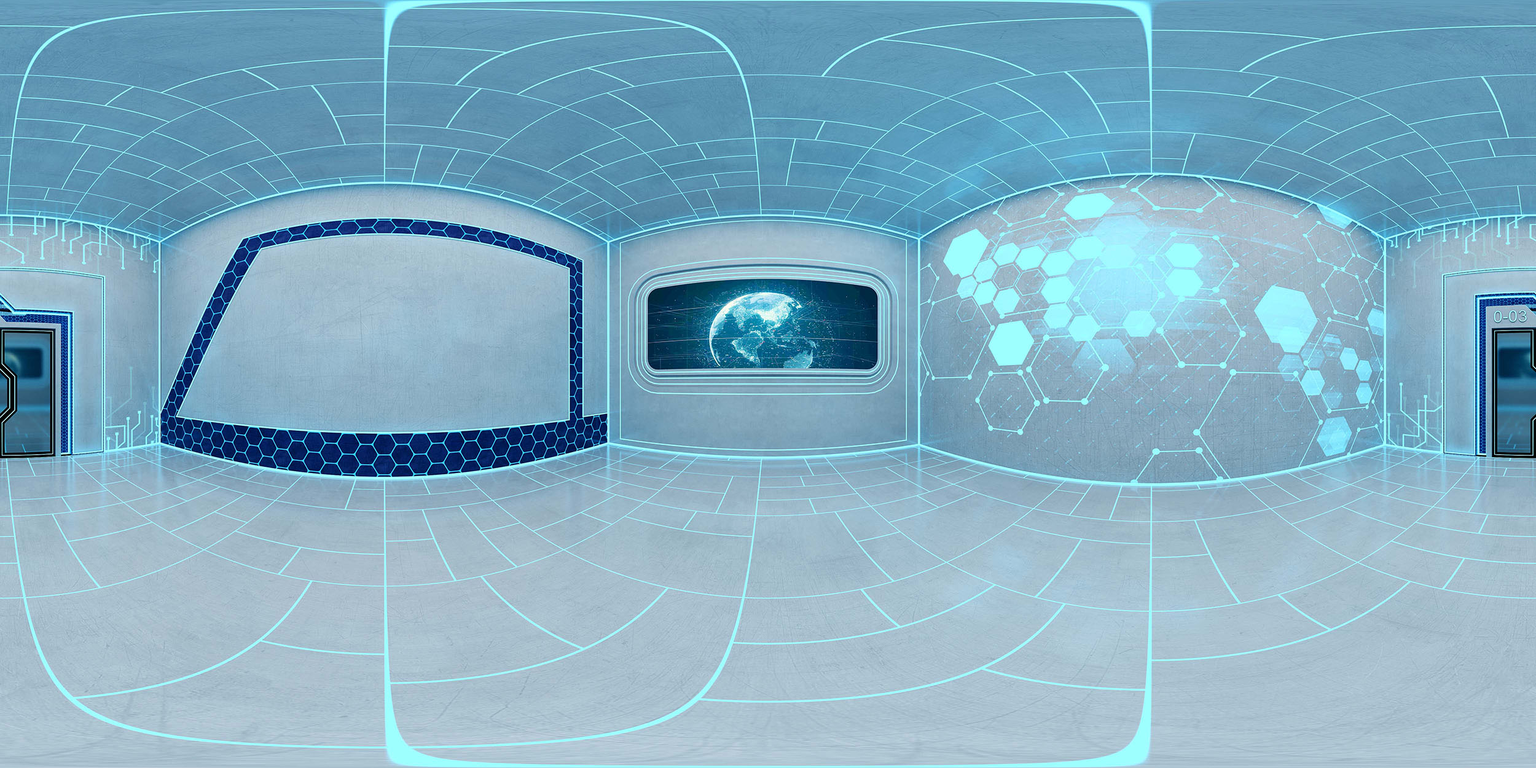
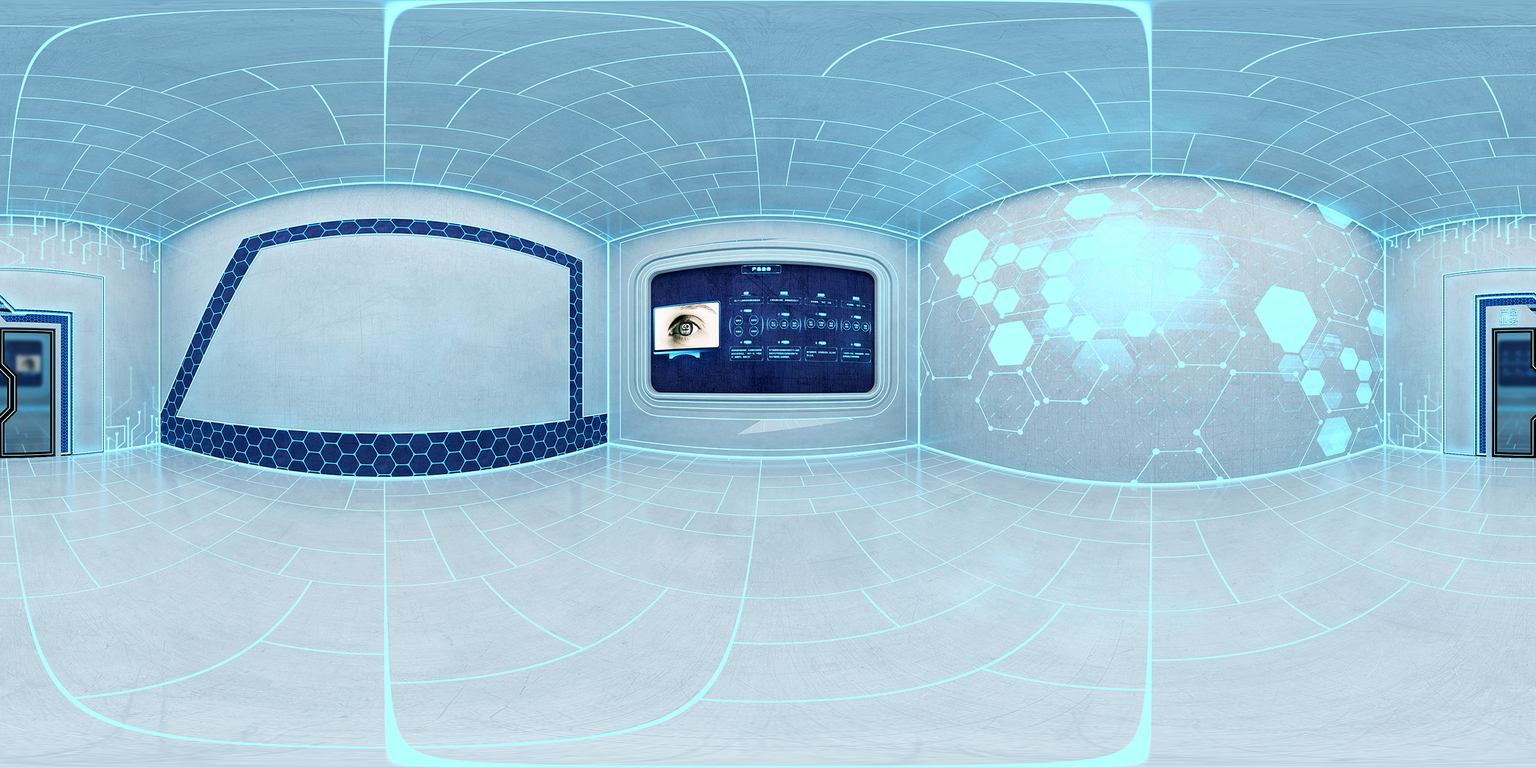
111133213213321321

diff --git a/src/views/Index3.vue b/src/views/Index3.vue
@@ -11,7 +11,20 @@
 <template>
     <div class="index3">
         <div id="viewer"></div>
-        <div class="back" ></div>
+        <div class="back" @click="backHome" v-if="id">
+            <img class="image" :src="backImage" alt="箭头" >
+        </div>
+
+
+        <div class="lotery" @touchstart.stop @click.stop="lotery" v-if="activeId.length === 5">
+            <img class="image" :src="lotterImage" alt="抽检">
+        </div>
+
+        <history-com ref="licheng"></history-com>
+        <yewu-com ref="yewu"></yewu-com>
+        <gongyi-com ref="gongyi"></gongyi-com>
+        <kejishili-com ref="keji"></kejishili-com>
+        <rongyu-com ref="rongyu"></rongyu-com>
     </div>
     
 </template>
@@ -36,11 +49,38 @@ import licheng from "@/assets/image/cube/发展历程.png"
 import gongyi from "@/assets/image/cube/公益事业.png"
 import keji from "@/assets/image/cube/科技能力.png"
 import rongyu from "@/assets/image/cube/荣誉成绩.png"
+import fangdaImage from "@/assets/image/cube/放大镜2.png"
+import backImage from "@/assets/返回大厅.png"
+import lotterImage from "@/assets/image/index2/选我.png"
 
 import { deepClone } from "@/assets/js/utils"
 
+import historyCom from "@/components/history"
+import yewuCom from "@/components/yewu"
+import gongyiCom from "@/components/gongyi"
+import kejishiliCom from "@/components/kejishili"
+import rongyuCom from "@/components/rongyu"
+
+
 export default {
+    components: {
+        historyCom,
+        yewuCom,
+        gongyiCom,
+        kejishiliCom,
+        rongyuCom
+    },
+    data() {
+        return {
+            lotterImage,
+            backImage,
+            id: null,
+            activeId: []
+        }
+    },
     mounted() {
+
+        let that = this
         const viewer = new Viewer({
             container: document.querySelector('#viewer'),
             panorama: image,
@@ -48,7 +88,7 @@ export default {
             defaultLong: Math.PI/2, //左右  0 and 2π
             defaultLat: 0, //上下 -π/2 and π/2
 
-            
+
             defaultZoomLvl: 20, //Initial zoom level, between 0 (for maxFov) and 100 (for minfov)
             plugins: [
                 [ MarkersPlugin, {
@@ -99,6 +139,7 @@ export default {
                             image: licheng,
                         })
 
+                        that.arrMarker = arr
 
                         return arr
                     })()
@@ -107,19 +148,59 @@ export default {
         })
 
         const markersPlugin = viewer.getPlugin(MarkersPlugin)
-        
-        markersPlugin.on("select-marker",function(e, marker, data) {
 
-            if(marker.id === "yewu"){
+        this.markers1 = markersPlugin.markers
+        this.markersPlugin = markersPlugin
+        this.viewer = viewer
+        
+        markersPlugin.on("select-marker",(e, marker, data) => {
+            
+            
+            if(marker.id === "fangdaImage") {
+                
+                if(this.id === "yewu") {
+                    this.$refs.yewu.show()
+
+                }else if(this.id === "gongyi") {
+                    this.$refs.gongyi.show()
+
+                }else if(this.id === "licheng") {
+                    this.$refs.licheng.show()
+
+                }else if(this.id === "keji") {
+                    this.$refs.keji.show()
+
+                }else if(this.id === "rongyu") {
+                    this.$refs.rongyu.show()
+                }
+
+                return
+
+            }else if(marker.id === "yewu"){
+
+                this.id = "yewu"
                 viewer.setPanorama(imageyewu)
+
             }else if(marker.id === "gongyi") {
                 viewer.setPanorama(imagegongyi)
+                this.id = "gongyi"
+
             }else if(marker.id === "licheng") {
                 viewer.setPanorama(imagelicheng)
+                this.id = "licheng"
+
             }else if(marker.id === "keji") {
                 viewer.setPanorama(imagekeji)
+                this.id = "keji"
+
             }else if(marker.id === "rongyu") {
                 viewer.setPanorama(imagerongyu)
+                this.id = "rongyu"
+
+            }
+            
+            if(!this.activeId.includes(this.id)) {
+                this.activeId.push(this.id)
             }
 
             markersPlugin.removeMarker("yewu")
@@ -127,27 +208,97 @@ export default {
             markersPlugin.removeMarker("keji")
             markersPlugin.removeMarker("rongyu")
             markersPlugin.removeMarker("gongyi")
+
+            markersPlugin.addMarker({
+                id: 'fangdaImage',
+                longitude: Math.PI * 2 , // 0 and 2π
+                latitude:  0.25,
+                width: 120,
+                height: 120,
+                image: fangdaImage,
+            })
+
+            let { latitude, longitude} = viewer.getPosition()
+            this.oldPostion = {
+                latitude,
+                longitude
+            }
             
-            // let prop = viewer.prop
-            // prop.position = {
-            //     latitude: Math.PI,
-            //     longitude: Math.PI 
-            // }
-            
-            // viewer.setOption("prop", prop)
+            viewer.rotate({
+                latitude: Math.PI/ 20,
+                longitude: 0 
+            })
 
         })
 
+    },
+    methods: {
+        lotery() {
+            this.$store.commit("SET_INDEX", 4)
+        },
+        backHome() {
+
+            function a() {
+                return new Promise((resolve,reject) => {
+                    setTimeout(() => {
+                        resolve()
+                    }, 300)
+                })
+            }
+
+            this.viewer.setPanorama(image).then( res => {
+                this.arrMarker.forEach(item => {
+                    this.markersPlugin.addMarker(item)
+                })
+                this.markersPlugin.removeMarker("fangdaImage")
+            })
+
+            setTimeout(() => {
+                this.viewer.rotate(this.oldPostion)
+            }, 150)
+
+            this.id = null
+        }
     }
 }
 </script>
 
 <style lang="scss" scoped>
+
+@function rem($n){
+  @return $n/(200)+rem;
+}
+
  #viewer {
     width: 100vw;
     height: 100vh;
 
+    
+}
 
+.back{
+    position: fixed;
+    left: 0;
+    top: 0;
+    z-index: 99;
+    height: rem(129);
+    width: rem(406);
+    .image{
+        width: rem(406);
+        width: 100%;
+    }
+}
+
+.lotery{
+    width: rem(188);
+    height: rem(193);
+    position: fixed;
+    bottom: rem(20);
+    z-index: 11;
+    right: rem(20);
+    .image{
+        width: 100%;
+    }
 }
 </style>
 

diff --git a/src/store/index.js b/src/store/index.js
@@ -12,11 +12,7 @@ import Vuex from 'vuex'
 Vue.use(Vuex)
 
 const state = {
-<<<<<<< HEAD
-    indexState: 3, //哪个场景
-=======
-    indexState: 0, //哪个场景
->>>>>>> 62fc59fcc0144b32b7744fd716316d7364e8798d
+    indexState: 0
 }
 
 const mutations = { 

diff --git a/vue.config.js b/vue.config.js
@@ -7,7 +7,7 @@ module.exports = {
             ]
         },
         externals: {
-            // "vue":"Vue"
+            "vue":"Vue"
         },
         output: {
             filename: `js/[name].${Timestamp}.js`,

diff --git a/public/index.html b/public/index.html
@@ -37,7 +37,7 @@
       })(document, window);
     </script>
 
-  <!-- <script src="<%= BASE_URL %>vue.min.js"></script> -->
+  <script src="<%= BASE_URL %>vue.min.js"></script>
   </head>
   <body>
     <noscript>

diff --git a/src/assets/js/constants.js b/src/assets/js/constants.js
@@ -133,12 +133,6 @@ export const IMAGE_URLS = {
     btnImagez5,
     bgImage11,
 
-
-    vr,
-    vr2,
-    vr3,
-    vr4,
-    vr5,
 }
 
 export const SPRITE_IAMGE_URLS= {
